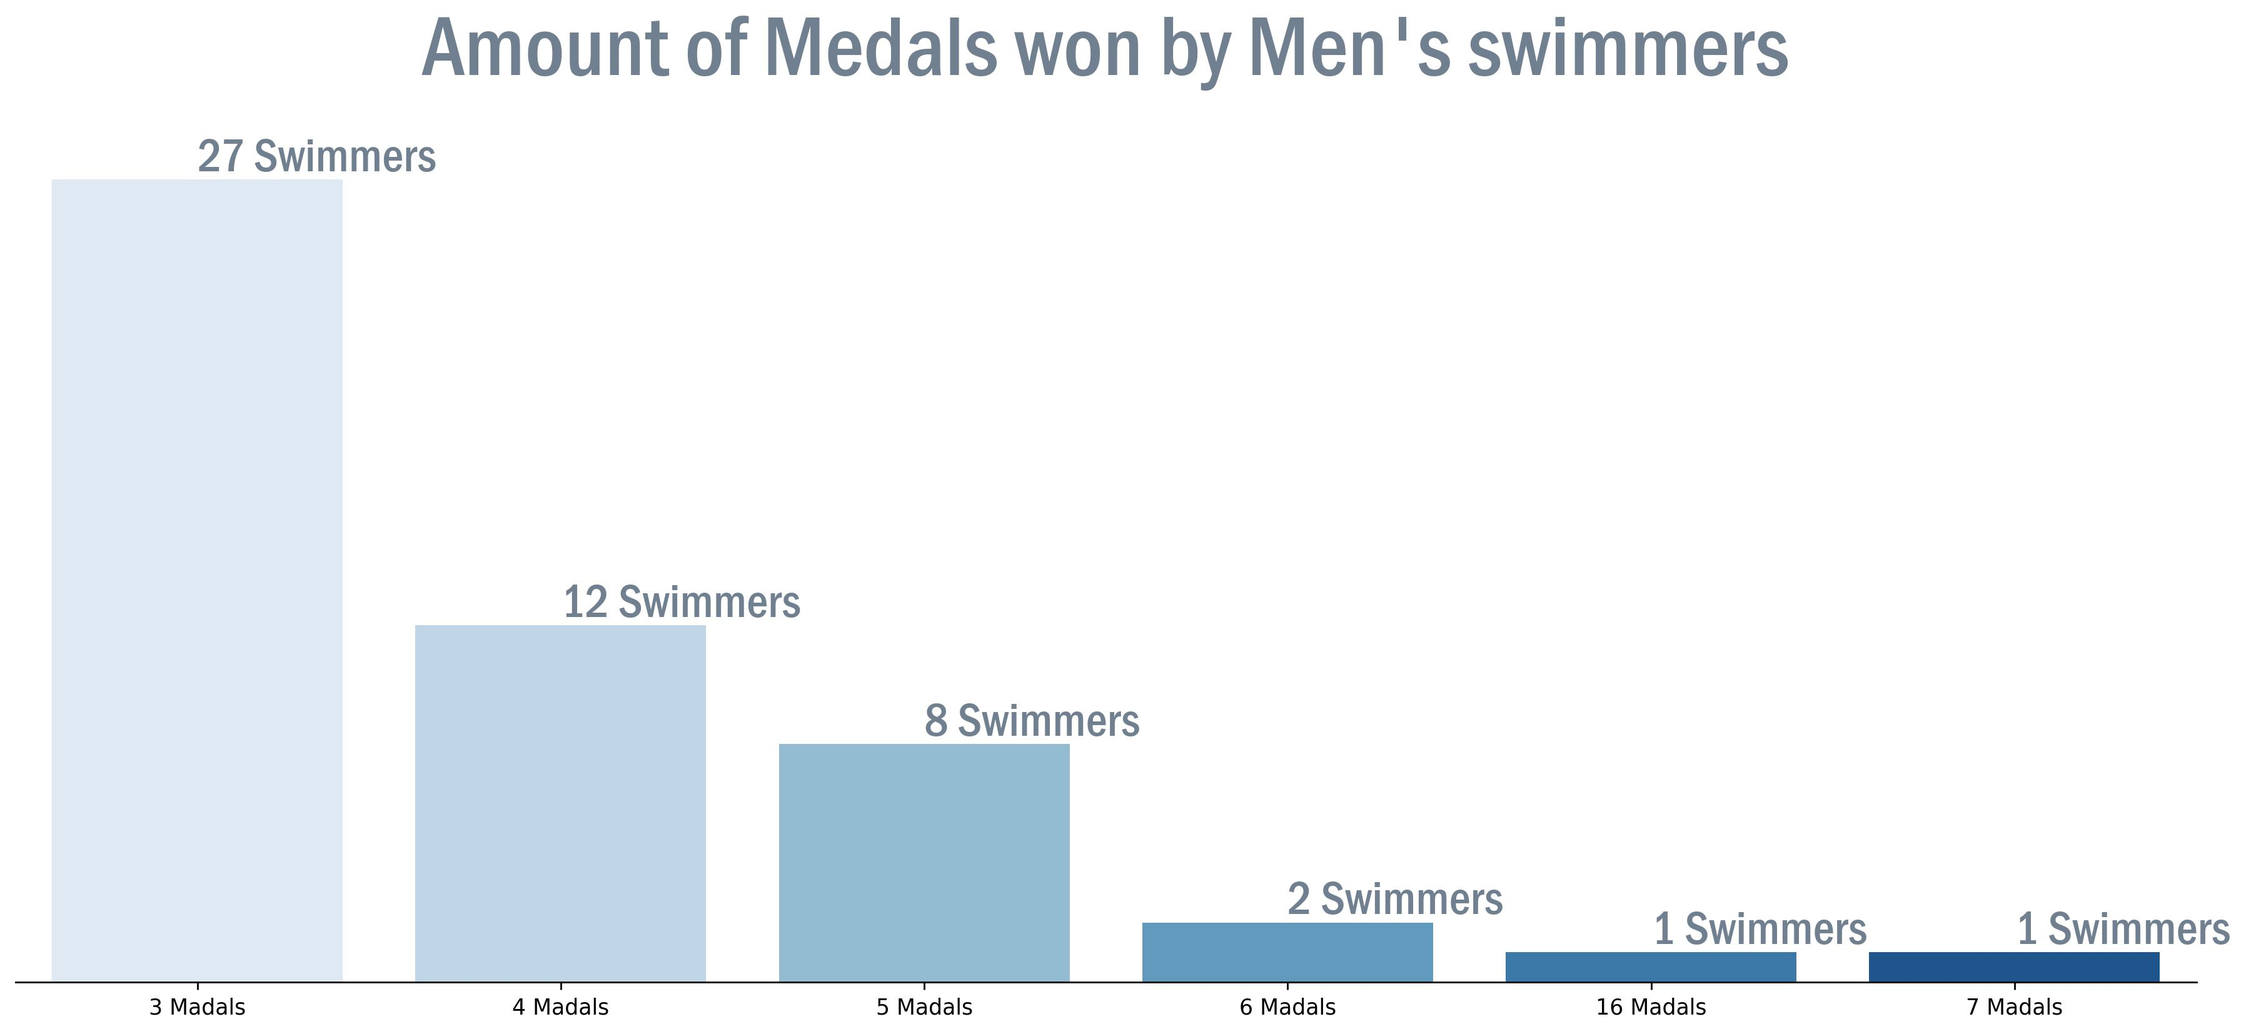
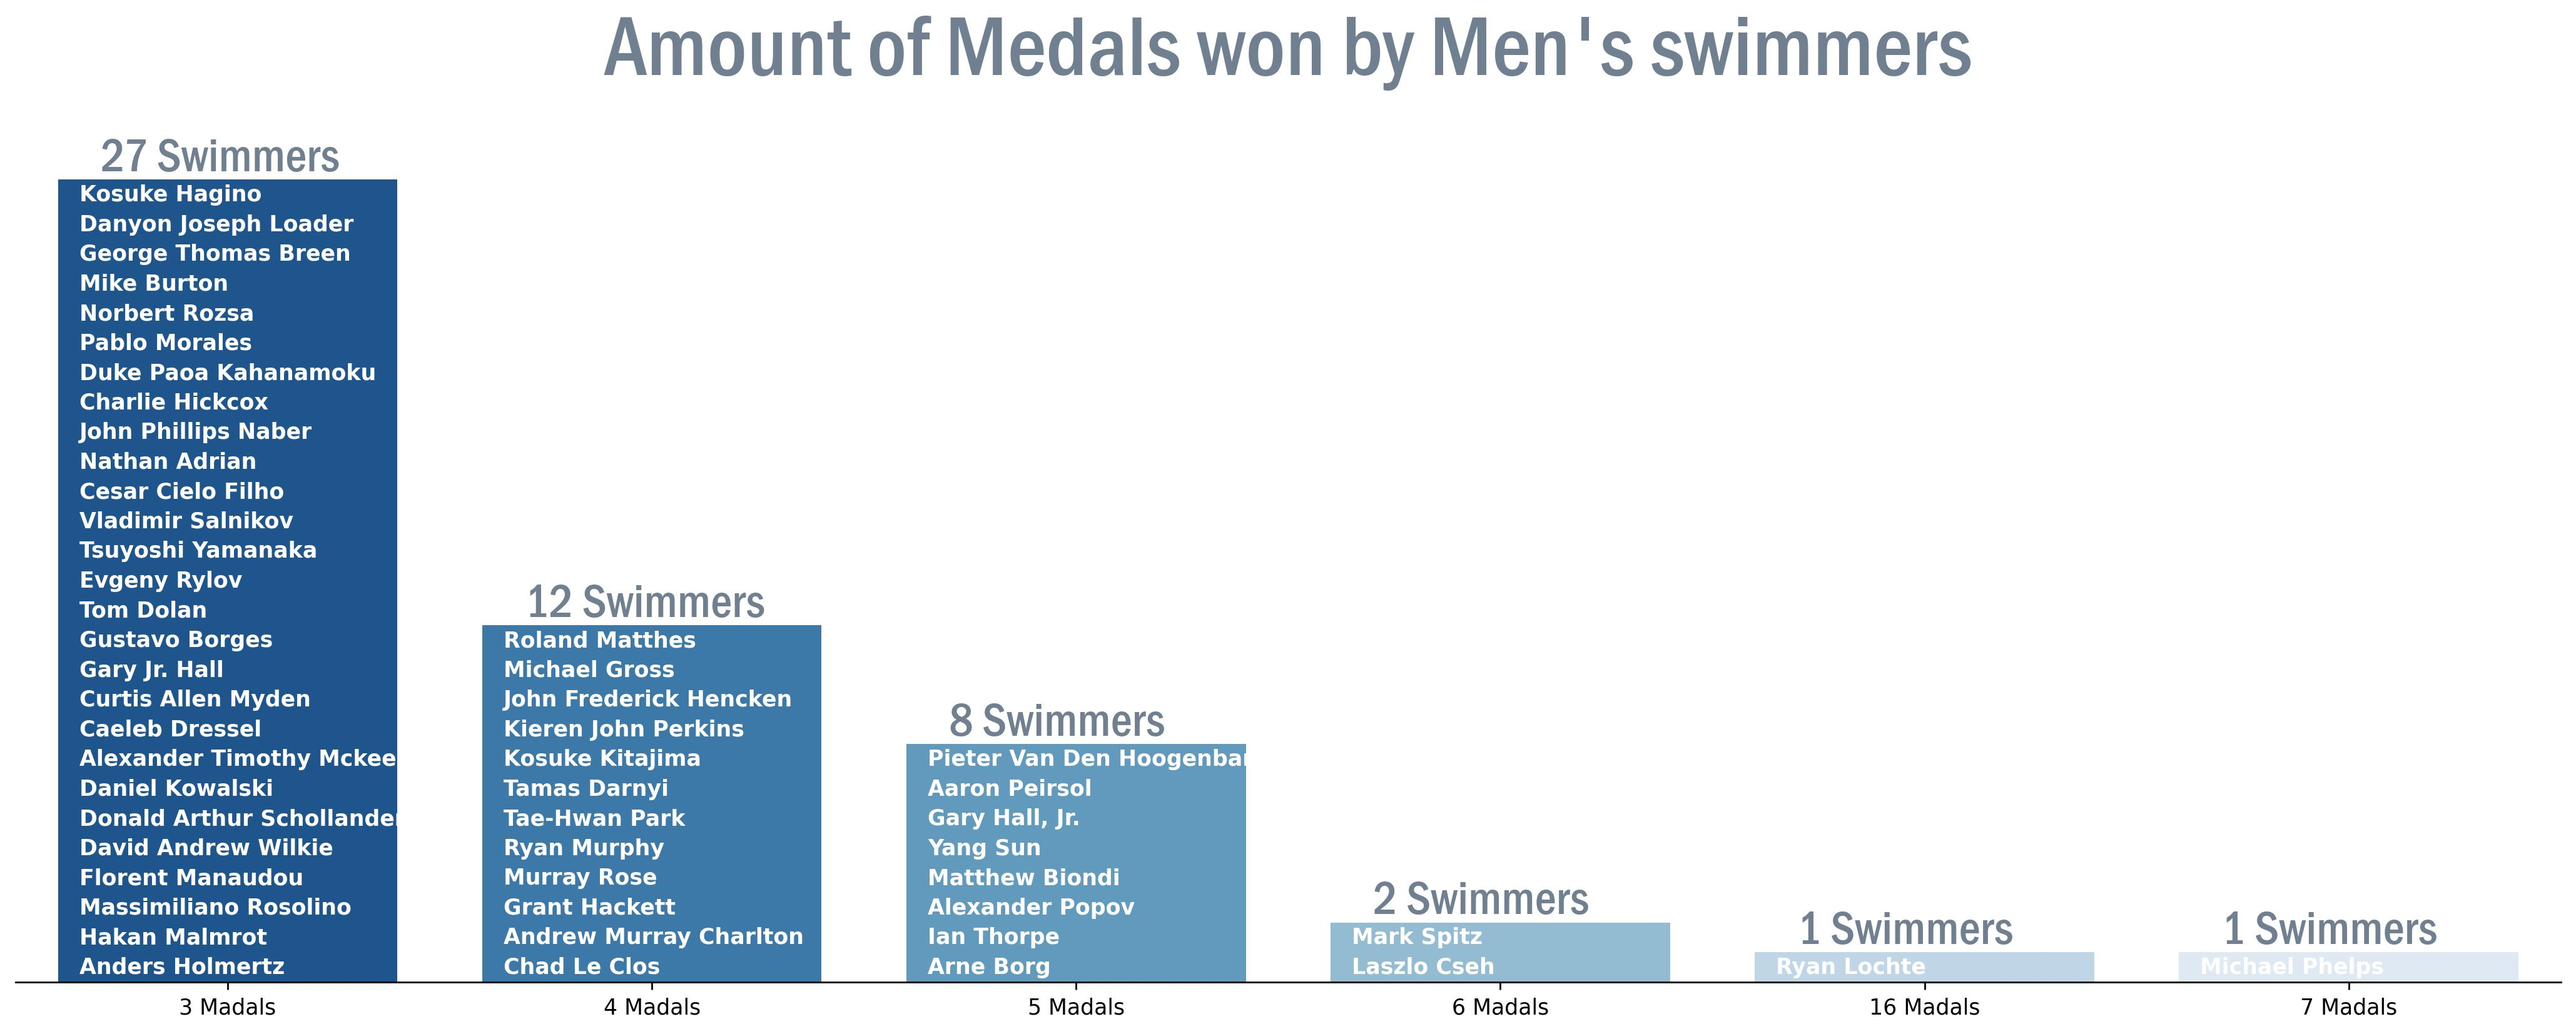
vscode autosave

Changed region(s): [[0.1871, 0.555, 0.9978, 0.9867], [0.0, 0.1233, 0.1871, 0.9867], [0.1871, 0.0, 0.8107, 0.0925]]

diff --git a/_posts/2023-07-01-post_olympic_games_post_1.md b/_posts/2023-07-01-post_olympic_games_post_1.md
@@ -29,7 +29,15 @@ Isn't the prospect of exploring the advancements in backstroke, breaststroke, bu
 ![image-left]({{ 'assets/img/for_posts/olympic/olympic_post_1/Cleveland_dot_plot_USA.jpg' | absolute_url }}){: .align-left} 
 
 
-gradient_bar_plot_Men.jpg
+
+
+In the next chart
+
 
 
 ![image-left]({{ 'assets/img/for_posts/olympic/olympic_post_1/gradient_bar_plot_Men.jpg' | absolute_url }}){: .align-left} 
+
+
+
+
+![image-left]({{ 'assets/img/for_posts/olympic/olympic_post_1/gradient_bar_plot_Women.jpg' | absolute_url }}){: .align-left} 
